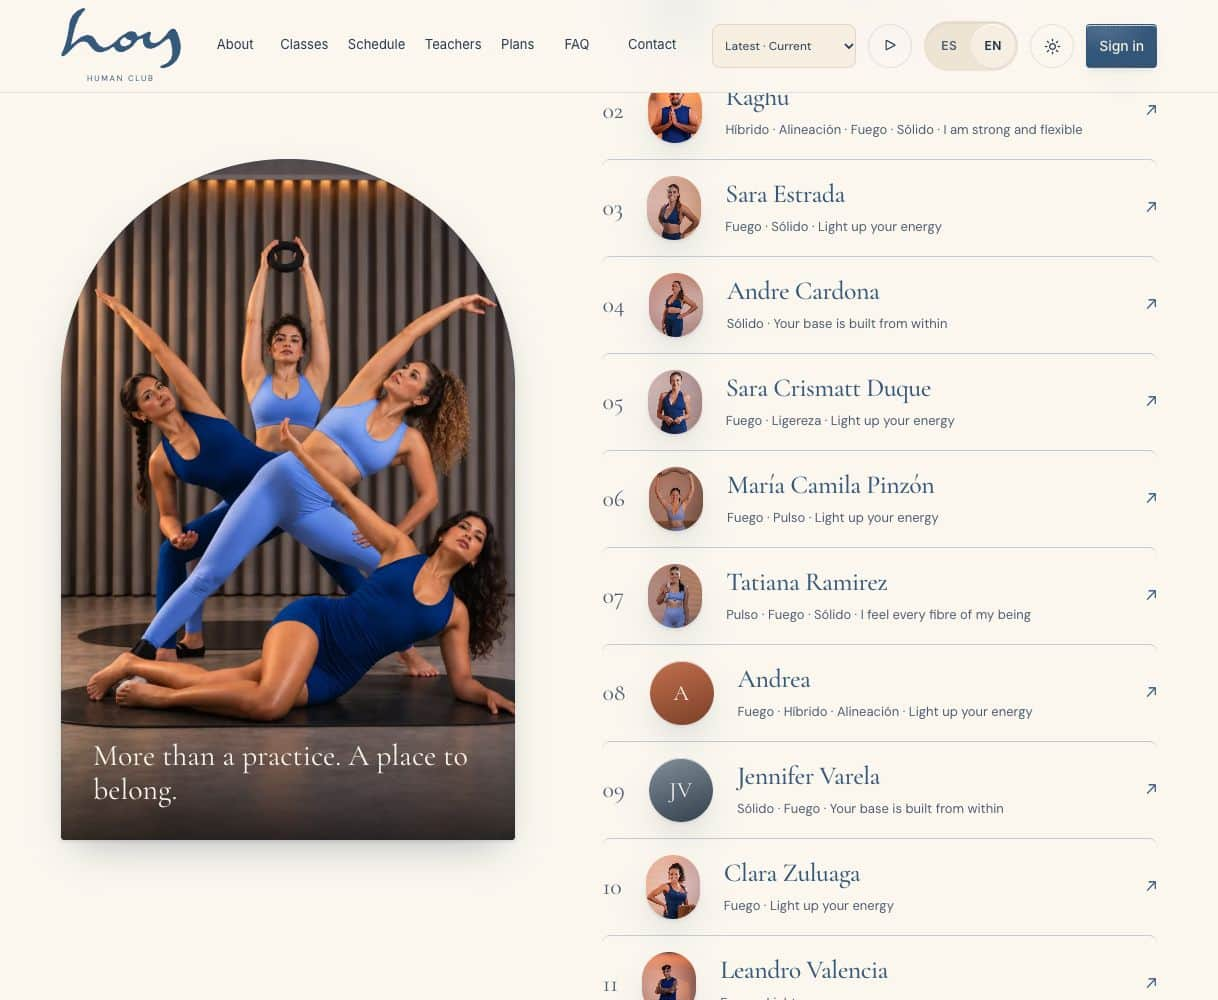
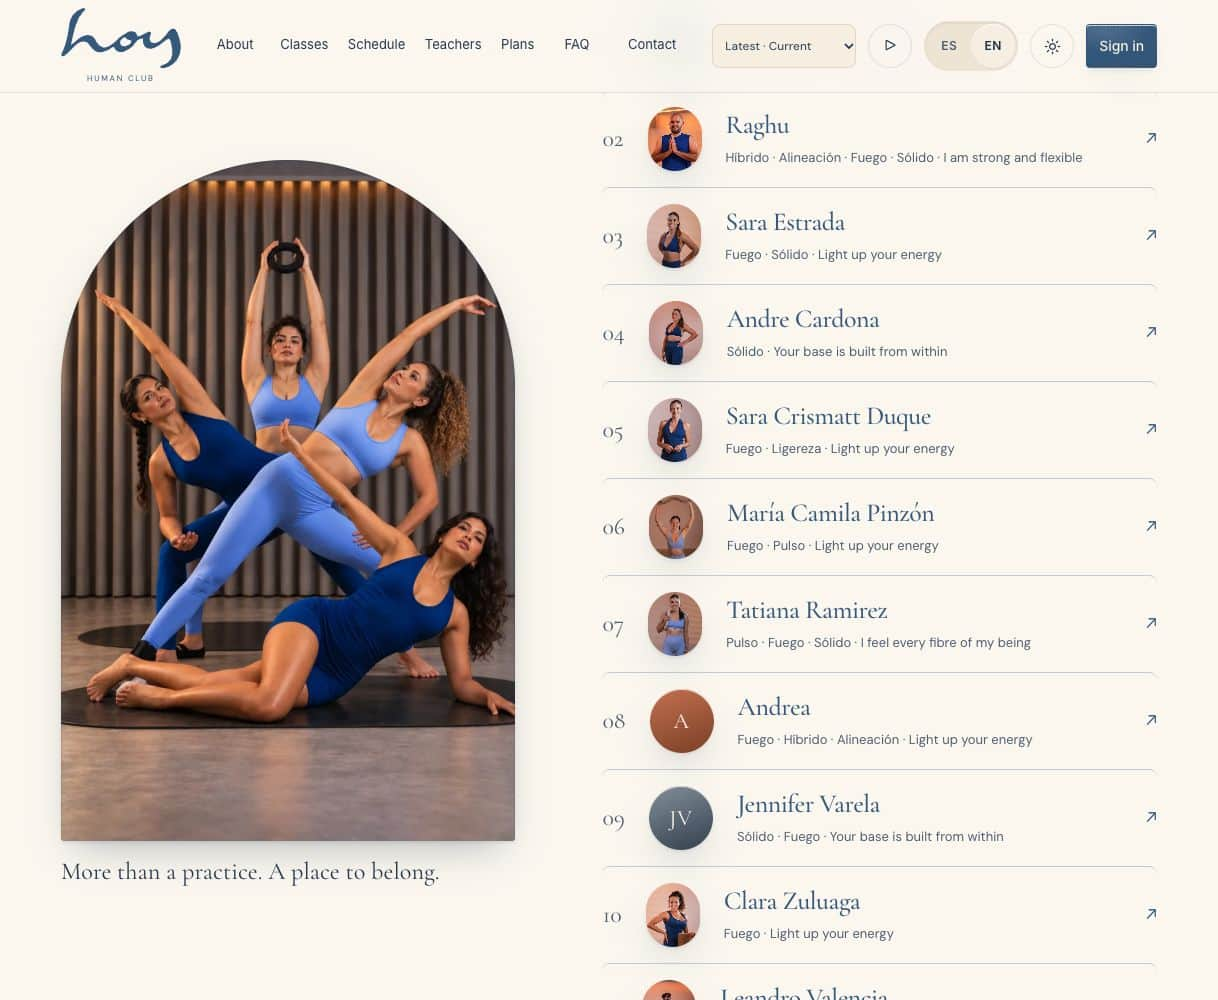
fix: place Home group caption below the full photo
W-01: keep the existing bilingual caption outside the Latest/Photos arch so it cannot cover bodies or legs. Preserve source pixels and semicircular geometry.

Add explicit caption/image separation, complete text-bound checks and lower-body hit points; refresh desktop/mobile evidence for independent review.

diff --git a/src/modules/website/pages/HomePage.tsx b/src/modules/website/pages/HomePage.tsx
@@ -82,7 +82,7 @@ function SanctuaryHome() {
         {today.length ? today.slice(0, 4).map(({ session, modality, teacher }) => <Link key={session.id} to={modality ? `/site/schedule?modality=${modality.slug}` : '/site/schedule'} className="sanctuary-session"><span className="sanctuary-session-time">{new Intl.DateTimeFormat(lang === 'es' ? 'es-CO' : 'en-US', { hour: 'numeric', minute: '2-digit' }).format(new Date(session.starts_at))}</span><span><strong>{session.title}</strong><small>{teacher?.display_name} · {modality?.duration_min ?? 60} min</small></span><span aria-hidden>↗</span></Link>) : <p className="sanctuary-agenda-empty">{t('site.today.empty')}</p>}
       </div></div></section>,
     Teachers: () => <section className="container sanctuary-section" data-reveal><div className="sanctuary-heading"><div><p className="eyebrow">{t('site.nav.teachers')}</p><h2>{t('site.new.teachersTitle')}</h2><p className="muted">{t('site.new.teachersBody')}</p></div><Link className="sanctuary-text-link" to="/site/teachers">{t('site.nav.teachers')} <Icon name="arrow-right" /></Link></div>
-      <div className="sanctuary-teachers"><div className={`site-community-frame${teacherPhotoEdition ? ' has-studio-photo' : ''}`}><div className="sanctuary-community"><>{teacherPhotoEdition ? <img {...studioPhotoProps('hero-group', true)} alt={t('site.photos.teachersGroup')} className="photo-community" /> : <AmbientScene poster={siteImage('community')} video={videoEnabled ? siteVideo('community') : undefined} alt={t('site.new.community')} motion={motion} className="community-living" />}</><p>{t('site.new.community')}</p></div></div><div className="sanctuary-teacher-list">{teachers.map((te, i) => {
+      <div className="sanctuary-teachers"><div className={`site-community-frame${teacherPhotoEdition ? ' has-studio-photo' : ''}`}><div className="sanctuary-community"><>{teacherPhotoEdition ? <img {...studioPhotoProps('hero-group', true)} alt={t('site.photos.teachersGroup')} className="photo-community" /> : <AmbientScene poster={siteImage('community')} video={videoEnabled ? siteVideo('community') : undefined} alt={t('site.new.community')} motion={motion} className="community-living" />}</>{!teacherPhotoEdition && <p>{t('site.new.community')}</p>}</div>{teacherPhotoEdition && <p className="studio-community-caption">{t('site.new.community')}</p>}</div><div className="sanctuary-teacher-list">{teachers.map((te, i) => {
         // 0051: real teachers, no generated portraits — the photo once uploaded, else initials in the tone of their class.
         const mod = modalities.find((m) => m.id === te.specialties[0]);
         const cls = classForModality(mod?.slug);

diff --git a/src/modules/website/photography.css b/src/modules/website/photography.css
@@ -15,6 +15,7 @@
 .site[data-edition="sanctuary"] .site-community-frame.has-studio-photo { display:block; container-type:inline-size; min-width:0; }
 .site[data-edition="sanctuary"] .site-community-frame.has-studio-photo .sanctuary-community { max-height:none; border-top-left-radius:50cqw; border-top-right-radius:50cqw; }
 .site[data-edition="sanctuary"] .site-community-frame.has-studio-photo .photo-community { max-height:none; height:auto; transform:none; }
+.site[data-edition="sanctuary"] .studio-community-caption { margin:0; padding-top:var(--sp-lg); padding-bottom:var(--sp-sm); color:var(--color-text); font-family:var(--font-editorial); font-size:clamp(1.25rem,2vw,1.875rem); line-height:1.2; }
 
 .photo-finale-image { width:50%; height:auto; object-fit:contain; }
 .site[data-site-version="photos"] .sanctuary-finale { min-height:0; gap:var(--sp-xl); padding:var(--sp-3xl) 5vw; }

diff --git a/docs/changelog/0200-home-group-frame.md b/docs/changelog/0200-home-group-frame.md
@@ -1,16 +1,16 @@
 version: 0.25.0
 date: 2026-10-26
 prompt: docs/prompts/0200-home-group-frame.md
-intent: Remove the current Home group-photo side gutters while preserving the four-person composition
-decision: Let the verified photo establish its natural height and derive its arch radius from the frame width
-rejected: Cover crops, enlargement into people, image replacement and global radius changes
+intent: Remove Home group-photo gutters and caption obstruction while preserving the four-person composition
+decision: Let the verified photo establish its natural height, derive its arch radius from width, and put its caption below the photo
+rejected: Cover crops, enlargement into people, image replacement, caption overlays over people and global radius changes
 files: src/modules/website/pages/HomePage.tsx, src/modules/website/photography.css, scripts/test-home-group-frame-ui.mjs, .github/workflows/photography-qa.yml, docs/pages/W-01.md, docs/screenshots/W-01/group-frame-*
 
 # Home group frame · W-01
 
-Live visual QA confirmed that a height-capped frame and inherited maximum image height forced the portrait group image into a wider box. `contain` left cream side gutters. The verified source now owns its height, fills the frame without cover cropping or distortion, and keeps a semicircular top measured from its width. Only the current Home studio-group treatment adopts the new geometry. Existing copy, caption overlay, source pixels, teacher identities, CMS portrait overrides, historical editions and held decisions remain unchanged.
+Live visual QA confirmed that a height-capped frame and inherited maximum image height forced the portrait group image into a wider box. `contain` left cream side gutters. The verified source now owns its height, fills the frame without cover cropping or distortion, and keeps a semicircular top measured from its width. Only the current Home studio-group treatment adopts the new geometry. Source pixels, caption copy, teacher identities, CMS portrait overrides, historical editions and held decisions remain unchanged. In Latest and Photos the caption sits below the photo, preserving the entire group without text covering their bodies.
 
-Regression coverage compares real before/after browser captures at 1218 and 390. Latest and Photos are checked in ES/EN, light/dark, at 390/768/1218/1280, including natural image/frame geometry, top radii, raised hands/ring/faces inside the clip, motion/hover protection, teacher CMS override/reload, stable teacher list and historical boundaries. Mobile mountain/practice detail checks preserve their current mappings and document scrolling behavior. Independent exact-diff visual review and exact-head CI remain required before release.
+Regression coverage compares real before/after browser captures at 1218 and 390. Latest and Photos are checked in ES/EN, light/dark, at 390/768/1218/1280, including caption/image separation, complete text-line bounds, natural image/frame geometry, top radii, raised hands/ring/faces/lower bodies inside the clip, motion/hover protection, teacher CMS override/reload, stable teacher list and historical boundaries. Mobile mountain/practice detail checks preserve their current mappings and document scrolling behavior. Independent exact-diff visual review and exact-head CI remain required before release.
 
 | Before | After |
 | --- | --- |
@@ -18,3 +18,5 @@ Regression coverage compares real before/after browser captures at 1218 and 390.
 | ![Mobile before](../screenshots/W-01/group-frame-before-latest-es-390.jpg) | ![Mobile after](../screenshots/W-01/group-frame-after-latest-es-390.jpg) |
 
 **Resumen (ES).** La foto de grupo conserva su proporción original, sin franjas laterales ni ampliación sobre las personas. El arco superior se calcula por anchura. Se mantienen el CMS, las ediciones, el texto y las decisiones pendientes.
+
+Independent visual review required removing the caption overlay at mobile width. An explicit separation check failed on the previous presentation before the caption was moved outside the photo frame. New checks compare the caption top with the image bottom and require all text bounds to fit in ES/EN at every tested width/theme, including hover and CMS reload. The image and semicircle geometry remain unchanged by this caption repair.

diff --git a/docs/prompts/0200-home-group-frame.md b/docs/prompts/0200-home-group-frame.md
@@ -8,4 +8,10 @@ Repair the confirmed Home group-photo cream gutters and complete mobile Home det
 
 ## Response
 
-The packaged group photograph retains its intrinsic dimensions. A scoped width container gives its arch equal top radii, removes the inherited height cap, and prevents parallax/hover scaling of that verified source. Latest and Photos share the repair; historical editions and CMS teacher portrait overrides retain their existing behavior. The source image and caption are unchanged.
+The packaged group photograph retains its intrinsic dimensions. A scoped width container gives its arch equal top radii, removes the inherited height cap, and prevents parallax/hover scaling of that verified source. Latest and Photos share the repair; historical editions and CMS teacher portrait overrides retain their existing behavior. The source image and caption copy are unchanged; current editions place the caption below the arch.
+
+## Independent visual-review follow-up
+
+Move the unchanged caption below the Latest/Photos group image so it cannot cover people. Preserve the original image and semicircle. Add explicit caption/image non-overlap and text-fit regressions, rerun desktop/mobile EN/ES/CMS/edition checks and obtain independent review on the new exact head before release.
+
+The regression reproduced overlap before repair. The caption is now a sibling below the arch, with token-based vertical space and responsive editorial text. Tests require its entire box below the photo and every text line within its box; image hit tests also cover lower-body positions.

diff --git a/docs/pages/W-01.md b/docs/pages/W-01.md
@@ -157,4 +157,4 @@ Existing same-day demo databases receive the five missing editorial CMS slots th
 
 ## Group-photo frame correction · 0200
 
-The verified group source fills its natural portrait frame without cream side gutters or cover crops. Its scoped top radii are semicircular at desktop and mobile widths; the existing caption overlay remains. CMS teacher portraits and historical editions retain their behavior. See [before/after evidence](../changelog/0200-home-group-frame.md). Repaired live captures remain pending integration review and deployment.
+The verified group source fills its natural portrait frame without cream side gutters or cover crops. Its scoped top radii are semicircular at desktop and mobile widths; the unchanged caption sits below the image and fits within its text box. CMS teacher portraits and historical editions retain their behavior. See [before/after evidence](../changelog/0200-home-group-frame.md). Repaired live captures remain pending integration review and deployment.
